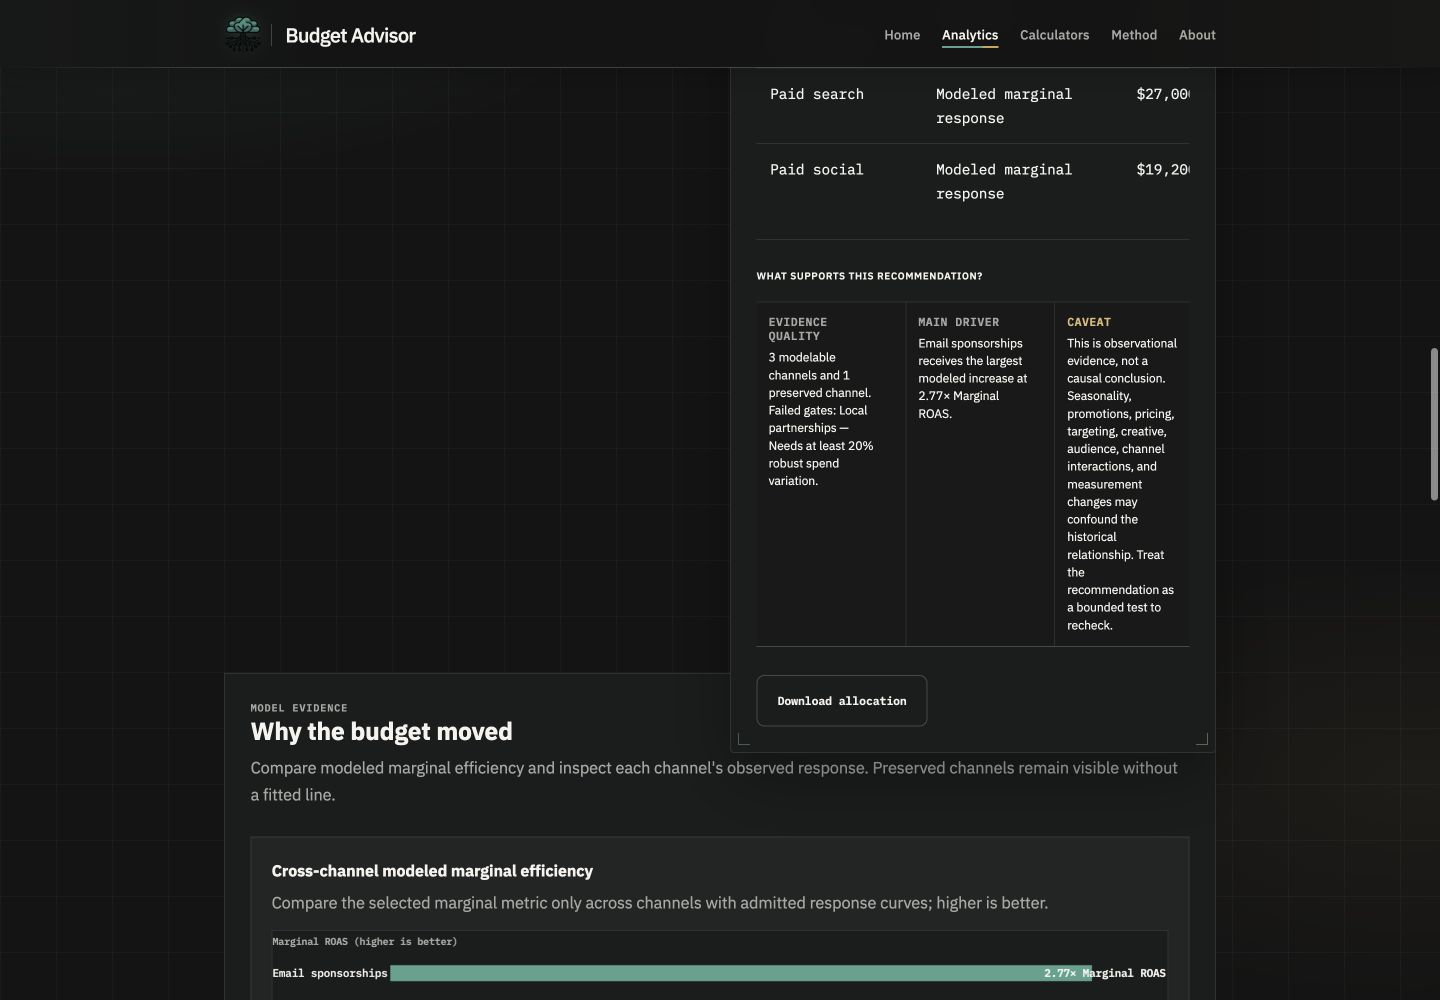
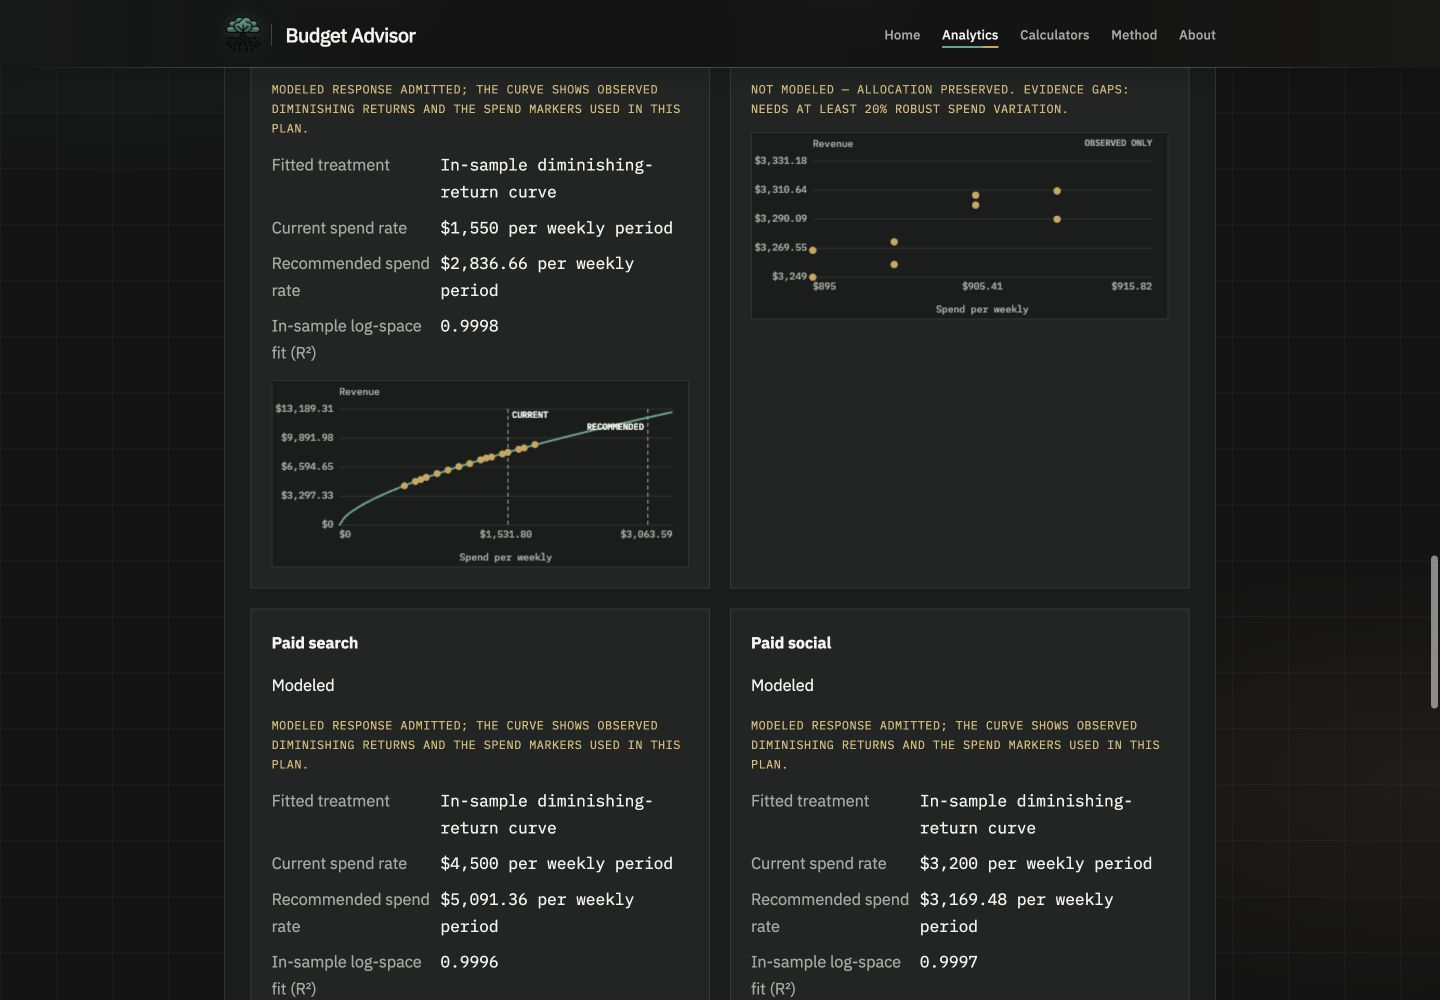
fix: keep narrow response curve labels visible

diff --git a/shared/charts.a5f455713afe.js b/shared/charts.a5f455713afe.js
@@ -376,17 +376,26 @@ function drawResponseCurve(canvas, channel, positions, options) {
   }
   const xBounds = chartBounds([...observed.map(point => point.spend), ...positionValues]);
   const yBounds = chartBounds(outcomeValues);
-  const pad = { top: 28, right: 16, bottom: 42, left: 58 };
-  const chartW = Math.max(1, W - pad.left - pad.right);
-  const chartH = Math.max(1, H - pad.top - pad.bottom);
-  const scaleX = (value) => pad.left + ((value - xBounds.minimum) / (xBounds.maximum - xBounds.minimum)) * chartW;
-  const scaleY = (value) => pad.top + chartH - ((value - yBounds.minimum) / (yBounds.maximum - yBounds.minimum)) * chartH;
   const formatSpend = typeof settings.formatSpend === 'function'
     ? settings.formatSpend
     : value => Math.round(value).toLocaleString();
   const formatOutcome = typeof settings.formatOutcome === 'function'
     ? settings.formatOutcome
     : value => Math.round(value).toLocaleString();
+  const yTickValues = Array.from({ length: 5 }, (_, index) => (
+    yBounds.maximum - (index / 4) * (yBounds.maximum - yBounds.minimum)
+  ));
+  const yTickLabels = yTickValues.map(formatOutcome);
+  const xTickValues = [xBounds.minimum, (xBounds.minimum + xBounds.maximum) / 2, xBounds.maximum];
+  const xTickLabels = xTickValues.map(formatSpend);
+
+  ctx.font = '500 10px IBM Plex Mono, monospace';
+  const widestYTick = Math.max(...yTickLabels.map(label => ctx.measureText(label).width), 0);
+  const pad = { top: 28, right: 16, bottom: 42, left: Math.max(58, Math.ceil(widestYTick) + 8) };
+  const chartW = Math.max(1, W - pad.left - pad.right);
+  const chartH = Math.max(1, H - pad.top - pad.bottom);
+  const scaleX = (value) => pad.left + ((value - xBounds.minimum) / (xBounds.maximum - xBounds.minimum)) * chartW;
+  const scaleY = (value) => pad.top + chartH - ((value - yBounds.minimum) / (yBounds.maximum - yBounds.minimum)) * chartH;
 
   ctx.strokeStyle = colors.grid;
   ctx.lineWidth = 1;
@@ -400,7 +409,7 @@ function drawResponseCurve(canvas, channel, positions, options) {
     ctx.font = '500 10px IBM Plex Mono, monospace';
     ctx.textAlign = 'right';
     ctx.textBaseline = 'middle';
-    ctx.fillText(formatOutcome(yBounds.maximum - (index / 4) * (yBounds.maximum - yBounds.minimum)), pad.left - 6, y);
+    ctx.fillText(yTickLabels[index], pad.left - 6, y);
   }
 
   ctx.fillStyle = colors.muted;
@@ -410,9 +419,9 @@ function drawResponseCurve(canvas, channel, positions, options) {
   ctx.fillText(settings.outcomeLabel || 'Outcome', pad.left, 6);
   ctx.textAlign = 'center';
   ctx.fillText(settings.spendLabel || 'Spend', pad.left + chartW / 2, H - 14);
-  [xBounds.minimum, (xBounds.minimum + xBounds.maximum) / 2, xBounds.maximum].forEach((value) => {
-    ctx.textAlign = 'center';
-    ctx.fillText(formatSpend(value), scaleX(value), H - pad.bottom + 5);
+  xTickValues.forEach((value, index) => {
+    ctx.textAlign = index === 0 ? 'left' : index === xTickValues.length - 1 ? 'right' : 'center';
+    ctx.fillText(xTickLabels[index], scaleX(value), H - pad.bottom + 5);
   });
 
   if (modelable) {

diff --git a/shared/charts.js b/shared/charts.js
@@ -376,17 +376,26 @@ function drawResponseCurve(canvas, channel, positions, options) {
   }
   const xBounds = chartBounds([...observed.map(point => point.spend), ...positionValues]);
   const yBounds = chartBounds(outcomeValues);
-  const pad = { top: 28, right: 16, bottom: 42, left: 58 };
-  const chartW = Math.max(1, W - pad.left - pad.right);
-  const chartH = Math.max(1, H - pad.top - pad.bottom);
-  const scaleX = (value) => pad.left + ((value - xBounds.minimum) / (xBounds.maximum - xBounds.minimum)) * chartW;
-  const scaleY = (value) => pad.top + chartH - ((value - yBounds.minimum) / (yBounds.maximum - yBounds.minimum)) * chartH;
   const formatSpend = typeof settings.formatSpend === 'function'
     ? settings.formatSpend
     : value => Math.round(value).toLocaleString();
   const formatOutcome = typeof settings.formatOutcome === 'function'
     ? settings.formatOutcome
     : value => Math.round(value).toLocaleString();
+  const yTickValues = Array.from({ length: 5 }, (_, index) => (
+    yBounds.maximum - (index / 4) * (yBounds.maximum - yBounds.minimum)
+  ));
+  const yTickLabels = yTickValues.map(formatOutcome);
+  const xTickValues = [xBounds.minimum, (xBounds.minimum + xBounds.maximum) / 2, xBounds.maximum];
+  const xTickLabels = xTickValues.map(formatSpend);
+
+  ctx.font = '500 10px IBM Plex Mono, monospace';
+  const widestYTick = Math.max(...yTickLabels.map(label => ctx.measureText(label).width), 0);
+  const pad = { top: 28, right: 16, bottom: 42, left: Math.max(58, Math.ceil(widestYTick) + 8) };
+  const chartW = Math.max(1, W - pad.left - pad.right);
+  const chartH = Math.max(1, H - pad.top - pad.bottom);
+  const scaleX = (value) => pad.left + ((value - xBounds.minimum) / (xBounds.maximum - xBounds.minimum)) * chartW;
+  const scaleY = (value) => pad.top + chartH - ((value - yBounds.minimum) / (yBounds.maximum - yBounds.minimum)) * chartH;
 
   ctx.strokeStyle = colors.grid;
   ctx.lineWidth = 1;
@@ -400,7 +409,7 @@ function drawResponseCurve(canvas, channel, positions, options) {
     ctx.font = '500 10px IBM Plex Mono, monospace';
     ctx.textAlign = 'right';
     ctx.textBaseline = 'middle';
-    ctx.fillText(formatOutcome(yBounds.maximum - (index / 4) * (yBounds.maximum - yBounds.minimum)), pad.left - 6, y);
+    ctx.fillText(yTickLabels[index], pad.left - 6, y);
   }
 
   ctx.fillStyle = colors.muted;
@@ -410,9 +419,9 @@ function drawResponseCurve(canvas, channel, positions, options) {
   ctx.fillText(settings.outcomeLabel || 'Outcome', pad.left, 6);
   ctx.textAlign = 'center';
   ctx.fillText(settings.spendLabel || 'Spend', pad.left + chartW / 2, H - 14);
-  [xBounds.minimum, (xBounds.minimum + xBounds.maximum) / 2, xBounds.maximum].forEach((value) => {
-    ctx.textAlign = 'center';
-    ctx.fillText(formatSpend(value), scaleX(value), H - pad.bottom + 5);
+  xTickValues.forEach((value, index) => {
+    ctx.textAlign = index === 0 ? 'left' : index === xTickValues.length - 1 ? 'right' : 'center';
+    ctx.fillText(xTickLabels[index], scaleX(value), H - pad.bottom + 5);
   });
 
   if (modelable) {

diff --git a/tests/charts.test.js b/tests/charts.test.js
@@ -75,7 +75,17 @@ function makeCanvas(width = 500, height = 260) {
     },
     fillText(text, x, y) {
       fonts.push(this.font);
-      labels.push({ text, x, y, align: this.textAlign });
+      labels.push({
+        text,
+        x,
+        y,
+        align: this.textAlign,
+        width: this.measureText(text).width
+      });
+    },
+    measureText(text) {
+      const fontSize = Number(this.font.match(/(\d+(?:\.\d+)?)px/)?.[1]) || 10;
+      return { width: String(text).length * fontSize * 0.6 };
     }
   };
 
@@ -217,6 +227,46 @@ test('response curve renders modeled observed points, fitted evidence, and posit
   assert.ok(view.labels.some(({ text }) => text === 'RECOMMENDED'));
   assert.ok(view.labels.every(({ x }) => x >= 0 && x <= 300), 'labels stay inside a 300px canvas');
   assert.ok(view.fonts.every((font) => font.includes('IBM Plex Mono')));
+});
+
+test('response curve keeps narrow y-axis and endpoint spend labels inside the canvas', () => {
+  const charts = loadCharts();
+  const width = 266;
+  const view = makeCanvas(width, 120);
+
+  charts.drawResponseCurve(
+    view.canvas,
+    {
+      channel: 'Local partnerships',
+      status: 'preserved',
+      observations: [
+        { spend: 895, outcome: 3269 },
+        { spend: 905, outcome: 3290 },
+        { spend: 910, outcome: 3331 }
+      ],
+      curve: null
+    },
+    {},
+    {
+      spendLabel: 'Spend per weekly period',
+      outcomeLabel: 'Revenue',
+      formatSpend: () => '$915.82',
+      formatOutcome: () => '$3,331.18'
+    }
+  );
+
+  for (const label of view.labels) {
+    const left = label.align === 'right'
+      ? label.x - label.width
+      : label.align === 'center'
+        ? label.x - label.width / 2
+        : label.x;
+    const right = left + label.width;
+    assert.ok(
+      left >= 0 && right <= width,
+      `${label.text} should stay inside the ${width}px response canvas (left=${left}, right=${right})`
+    );
+  }
 });
 
 test('response curve preserves observed-only channels without a fitted line', () => {

diff --git a/analytics/budget/index.html b/analytics/budget/index.html
@@ -389,7 +389,7 @@
     <script src="/shared/history-data.1f17ff8f3bb8.js"></script>
     <script src="/shared/marginality-engine.15b7bbae85b8.js"></script>
     <script src="/shared/budget-allocator.c272ddeb5f32.js"></script>
-    <script src="/shared/charts.45ff83cdd849.js"></script>
+    <script src="/shared/charts.a5f455713afe.js"></script>
     <script src="/shared/tool-extras.eb9e80f9fe8b.js"></script>
     <script src="/shared/budget-sample-data.90b5006c7593.js"></script>
     <script src="/shared/motion.8560e9468584.js"></script>

diff --git a/analytics/forecast/index.html b/analytics/forecast/index.html
@@ -307,7 +307,7 @@
     </footer>
 
     <script src="/shared/forecast-engine.8c81bf0b7fcf.js"></script>
-    <script src="/shared/charts.45ff83cdd849.js"></script>
+    <script src="/shared/charts.a5f455713afe.js"></script>
     <script src="/shared/tool-extras.eb9e80f9fe8b.js"></script>
     <script src="/shared/motion.8560e9468584.js"></script>
     <script src="/analytics/forecast/app.3ed34323334d.js"></script>

diff --git a/tests/budget-app.test.js b/tests/budget-app.test.js
@@ -144,6 +144,9 @@ function createCanvasContext() {
     lineTo() {},
     stroke() {},
     fillText() {},
+    measureText(text) {
+      return { width: String(text).length * 6 };
+    },
     setLineDash() {},
     arc() {},
     fill() {},

diff --git a/docs/superpowers/plans/2026-08-03-budget-curve-discoverability.md b/docs/superpowers/plans/2026-08-03-budget-curve-discoverability.md
@@ -739,7 +739,7 @@ document.documentElement.scrollWidth <= 390
 
 Expected: `true`.
 
-4. Confirm modeled/preserved text, canvas, and spend-position text do not clip.
+4. Confirm modeled/preserved text, canvas, and spend-position text do not clip. The response-curve y-axis labels and endpoint spend ticks must remain inside a 266px-wide canvas; verify this after any chart-label remediation.
 5. Confirm the browser console has no errors.
 6. Save `docs/superpowers/screenshots/budget-curve-discoverability/budget-evidence-390px.png` with a response-curve card and its interpretation visible.
 
